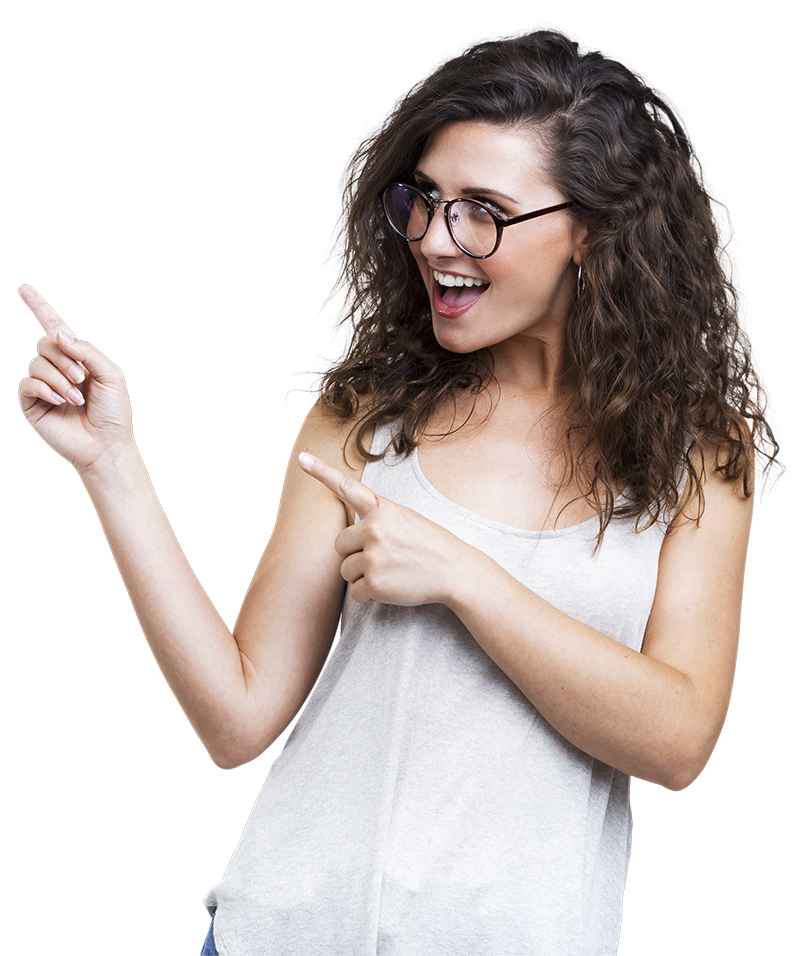
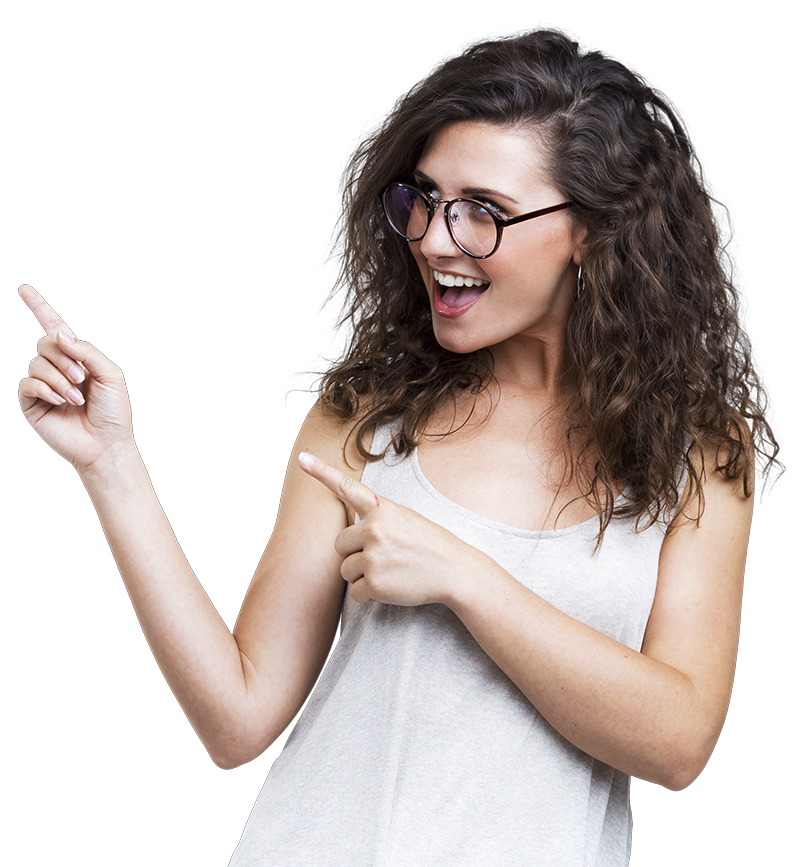
fs

diff --git a/index.html b/index.html
@@ -50,7 +50,7 @@
                     <a href="#">EXPLORE NOW</a>
                 </div>
                 <div class="col-md-6 text-center">
-                    <img src="./resources/pictures/home-pic.png" alt="">
+                    <img class="img-fluid" src="./resources/pictures/home-pic.png" alt="">
                 </div>
             </div>
         </div>
@@ -99,21 +99,31 @@
                 <div class="col-md-6 text-center"><img src="./resources/pictures/feature.png" alt=""></div>
                 <div class="col-md-6">
                     <h2>We always love to hear from <br> our customers</h2>
-                    <p>Lorem ipsum dolor sit amet consectetur adipisicing elit. Voluptatem eum saepe modi excepturi quos itaque maxime dolores, nisi libero repellendus.</p>
-                    <p>Lorem ipsum dolor sit amet consectetur adipisicing elit. Consequatur quis, esse sed, animi ratione velit nam repellendus aperiam provident dicta qui inventore perferendis facere! Dolor, hic sequi quia totam ea necessitatibus nisi atque iste asperiores quibusdam veritatis tenetur officiis nesciunt? Voluptate soluta totam est, itaque minus maxime expedita deserunt blanditiis repellat fuga quaerat quidem aliquam possimus eaque quia nisi dolorem.</p>
+                    <p>Lorem ipsum dolor sit amet consectetur adipisicing elit. Voluptatem eum saepe modi excepturi quos
+                        itaque maxime dolores, nisi libero repellendus.</p>
+                    <p>Lorem ipsum dolor sit amet consectetur adipisicing elit. Consequatur quis, esse sed, animi
+                        ratione velit nam repellendus aperiam provident dicta qui inventore perferendis facere! Dolor,
+                        hic sequi quia totam ea necessitatibus nisi atque iste asperiores quibusdam veritatis tenetur
+                        officiis nesciunt? Voluptate soluta totam est, itaque minus maxime expedita deserunt blanditiis
+                        repellat fuga quaerat quidem aliquam possimus eaque quia nisi dolorem.</p>
                     <a href="#">WATCH NOW</a>
                 </div>
             </div>
         </div>
     </section>
-    
+
     <section class="explore">
         <div class="container">
             <div class="row">
                 <div class="col-md-6">
                     <h2>Spend your amazing time<br>with our service</h2>
-                    <p>Lorem ipsum dolor sit amet consectetur adipisicing elit. Voluptatem eum saepe modi excepturi quos itaque maxime dolores, nisi libero repellendus.</p>
-                    <p class="text-justify">Lorem ipsum dolor sit amet consectetur, adipisicing elit. Quae quo debitis voluptate eius perferendis aliquam neque dignissimos, quidem illum quod voluptatem? Eum sapiente vitae magnam sed enim molestiae dolores ex quasi! Dolorum nemo libero labore doloremque, minus necessitatibus eaque iure? Asperiores dolorem, consequuntur impedit iste fuga rem blanditiis cum odit commodi error vero soluta natus! Ea neque maxime necessitatibus sunt!</p>
+                    <p>Lorem ipsum dolor sit amet consectetur adipisicing elit. Voluptatem eum saepe modi excepturi quos
+                        itaque maxime dolores, nisi libero repellendus.</p>
+                    <p class="text-justify">Lorem ipsum dolor sit amet consectetur, adipisicing elit. Quae quo debitis
+                        voluptate eius perferendis aliquam neque dignissimos, quidem illum quod voluptatem? Eum sapiente
+                        vitae magnam sed enim molestiae dolores ex quasi! Dolorum nemo libero labore doloremque, minus
+                        necessitatibus eaque iure? Asperiores dolorem, consequuntur impedit iste fuga rem blanditiis cum
+                        odit commodi error vero soluta natus! Ea neque maxime necessitatibus sunt!</p>
                     <a href="#">WATCH NOW</a>
                 </div>
                 <div class="col-md-6 text-center"><img src="./resources/pictures/explore.png" class="img-fluid"></div>
@@ -125,45 +135,53 @@
         <div class="container">
             <div id="carouselExampleCaptions" class="carousel slide" data-bs-ride="false">
                 <div class="carousel-indicators">
-                  <button type="button" data-bs-target="#carouselExampleCaptions" data-bs-slide-to="0" class="active" aria-current="true" aria-label="Slide 1"></button>
-                  <button type="button" data-bs-target="#carouselExampleCaptions" data-bs-slide-to="1" aria-label="Slide 2"></button>
-                  <button type="button" data-bs-target="#carouselExampleCaptions" data-bs-slide-to="2" aria-label="Slide 3"></button>
+                    <button type="button" data-bs-target="#carouselExampleCaptions" data-bs-slide-to="0" class="active"
+                        aria-current="true" aria-label="Slide 1"></button>
+                    <button type="button" data-bs-target="#carouselExampleCaptions" data-bs-slide-to="1"
+                        aria-label="Slide 2"></button>
+                    <button type="button" data-bs-target="#carouselExampleCaptions" data-bs-slide-to="2"
+                        aria-label="Slide 3"></button>
                 </div>
                 <div class="carousel-inner">
-                  <div class="carousel-item active">
-                    <img src="./resources/pictures/testimonial-1.png" class="w-100" alt="...">
-                    <div class="carousel-caption">
-                      <h6>Jenifer</h6>
-                      <small>CEO & Founder @ YOGO</small>
-                      <p>Some representative placeholder content<br> Lorem ipsum dolor sit, amet consectetur adipisicing elit.<br> Cupiditate, eum! for the first slide.</p>
+                    <div class="carousel-item active">
+                        <img src="./resources/pictures/testimonial-1.png" class="w-100" alt="...">
+                        <div class="carousel-caption">
+                            <h6>Jenifer</h6>
+                            <small>CEO & Founder @ YOGO</small>
+                            <p>Some representative placeholder content<br> Lorem ipsum dolor sit, amet consectetur
+                                adipisicing elit.<br> Cupiditate, eum! for the first slide.</p>
+                        </div>
                     </div>
-                  </div>
-                  <div class="carousel-item">
-                    <img src="./resources/pictures/testimonial-2.jpg" class="w-100" alt="...">
-                    <div class="carousel-caption">
-                      <h6>Daniel</h6>
-                      <small>Product manager</small>
-                      <p>Some representative placeholder content<br> Lorem ipsum dolor sit, amet consectetur adipisicing elit.<br> Cupiditate, eum! for the first slide.</p>
+                    <div class="carousel-item">
+                        <img src="./resources/pictures/testimonial-2.jpg" class="w-100" alt="...">
+                        <div class="carousel-caption">
+                            <h6>Daniel</h6>
+                            <small>Product manager</small>
+                            <p>Some representative placeholder content<br> Lorem ipsum dolor sit, amet consectetur
+                                adipisicing elit.<br> Cupiditate, eum! for the first slide.</p>
+                        </div>
                     </div>
-                  </div>
-                  <div class="carousel-item">
-                    <img src="./resources/pictures/testimonial-3.jpg" class="w-100" alt="...">
-                    <div class="carousel-caption">
-                      <h6>Reyena</h6>
-                      <small>Co Founder @ YOGO</small>
-                      <p>Some representative placeholder content<br> Lorem ipsum dolor sit, amet consectetur adipisicing elit.<br> Cupiditate, eum! for the first slide.</p>
+                    <div class="carousel-item">
+                        <img src="./resources/pictures/testimonial-3.jpg" class="w-100" alt="...">
+                        <div class="carousel-caption">
+                            <h6>Reyena</h6>
+                            <small>Co Founder @ YOGO</small>
+                            <p>Some representative placeholder content<br> Lorem ipsum dolor sit, amet consectetur
+                                adipisicing elit.<br> Cupiditate, eum! for the first slide.</p>
+                        </div>
                     </div>
-                  </div>
                 </div>
-                <button class="carousel-control-prev" type="button" data-bs-target="#carouselExampleCaptions" data-bs-slide="prev">
-                  <span class="carousel-control-prev-icon" aria-hidden="true"></span>
-                  <span class="visually-hidden">Previous</span>
+                <button class="carousel-control-prev" type="button" data-bs-target="#carouselExampleCaptions"
+                    data-bs-slide="prev">
+                    <span class="carousel-control-prev-icon" aria-hidden="true"></span>
+                    <span class="visually-hidden">Previous</span>
                 </button>
-                <button class="carousel-control-next" type="button" data-bs-target="#carouselExampleCaptions" data-bs-slide="next">
-                  <span class="carousel-control-next-icon" aria-hidden="true"></span>
-                  <span class="visually-hidden">Next</span>
+                <button class="carousel-control-next" type="button" data-bs-target="#carouselExampleCaptions"
+                    data-bs-slide="next">
+                    <span class="carousel-control-next-icon" aria-hidden="true"></span>
+                    <span class="visually-hidden">Next</span>
                 </button>
-              </div> 
+            </div>
         </div>
     </section>
 
@@ -177,8 +195,6 @@
             <small>Dream big, Set goal, Take action</small>
         </div>
     </section>
-
-
 
 </body>
 

diff --git a/resources/css/style.css b/resources/css/style.css
@@ -59,7 +59,7 @@ body {
 }
 
 .banner img {
-    max-height: 559px;
+    margin-top: -128px;
 }
 
 .banner a{
@@ -93,8 +93,6 @@ body {
         margin: 80px 0 50px;
     }
 }
-
-
 
 /* ----------service---------- */
 .service {
